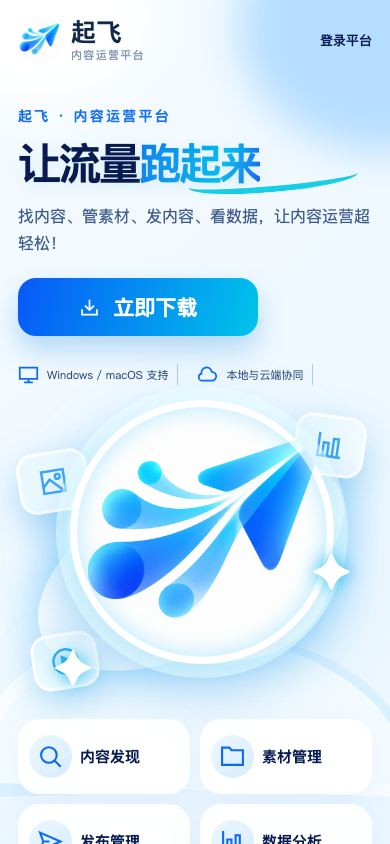
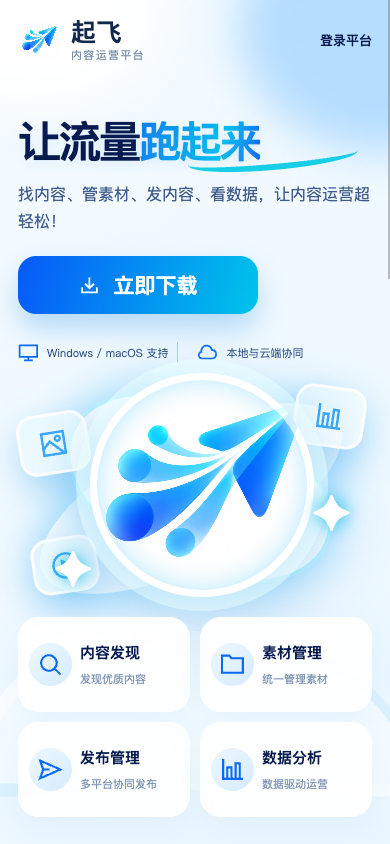
docs: record CHG 078 mobile layout correction

diff --git a/delivery/active/CHG-20261010-078/checkpoint.md b/delivery/active/CHG-20261010-078/checkpoint.md
@@ -1,7 +1,7 @@
 # CHG-20261010-078 Checkpoint
 
 - 已完成：Task 1 脚本与初始清单；Task 2 Cloud `/home` 与三平台按钮；Task 3 共享登录页及品牌视觉，宽屏与 390 px 无头浏览器截图已留证。
-- 当前工作：首页视觉修正已提交，状态回到 VERIFYING；等待新 Cloud Web 部署后的 `/home`、真实账号登录与目标用户网络三平台下载验收。
+- 当前工作：首页文案与手机布局再次校准，状态仍为 VERIFYING；等待新 Cloud Web 部署后的 `/home`、真实账号登录与目标用户网络三平台下载验收。
 - 下一步：部署后执行固定 Tag 清单更新命令，回读在线 JSON，逐个平台点击下载；收到结果后关闭 CHG。
 - 阻塞：无代码阻塞。在线部署和终端网络验收依赖目标环境人工执行。
-- 最近验证：首页视觉修正后 Cloud Web 构建与 Web 全量 490 项通过；1672×941 新截图与 390 px 移动截图已替换，移动视口宽度与文档滚动宽度同为 390。先前 Cloud/Desktop 双构建、Go 静态测试、下载脚本 4 项和 GitHub 清单核对仍有效；本机对 GitHub 资产直连 HEAD 曾超时，尚不代表用户网络不可下载。
+- 最近验证：本轮 Cloud Web 构建通过；1672×941、390×844、320×844 视口截图与 390 px 全页截图已留证，390/320 px 文档宽度分别等于视口宽度，功能卡标题与副文案均可见。先前 Web 全量 490 项、Desktop 构建、Go 静态测试、下载脚本 4 项和 GitHub 清单核对仍有效；本机对 GitHub 资产直连 HEAD 曾超时，尚不代表用户网络不可下载。

diff --git a/delivery/active/CHG-20261010-078/evidence/home-copy-and-mobile-layout.md b/delivery/active/CHG-20261010-078/evidence/home-copy-and-mobile-layout.md
@@ -1,0 +1,9 @@
+# 官网文案与手机布局校准
+
+- 用户标注：删除主视觉上方「起飞 · 内容运营平台」与「轻量易用」；放大居中导航；缩小「起飞」左侧 Logo 内图形，顶部略留白。补充反馈：手机端底部功能文案被遮挡。
+- 代码改动：首页导航文字 17→21 px；仅首页品牌图背景尺寸 150%→130%；删除两处指定文案。手机端取消 390 px 下隐藏功能副文案与最后一项支持说明的规则，插画高度 330→250 px；320 px 及以下高度 235 px、功能卡文字和间距适配。
+- Cloud 提交：`7c725c3`。
+- 自动验证：`npm run build:cloud` 退出码 0；`git diff --check` 退出码 0。
+- 浏览器验证：Chrome DevTools 视口 1672×941、390×844、320×844；390 与 320 px 文档宽度分别为 390 与 320，无水平溢出。390 px 下四张功能卡底部为 817.25 px，320 px 下为 832.23 px，均位于 844 px 视口内；四张卡的标题和副文案均在页面中可见。手机端「Windows / macOS 支持」和「本地与云端协同」均可见。
+- 截图：`screenshots/wt-home-wide.png`、`screenshots/wt-home-mobile-cdp.png`、`screenshots/wt-home-mobile-320.png`、`screenshots/wt-home-mobile-full.png`。
+- 边界：只验证本地页面与构建；线上部署和目标用户网络下载仍待验收。

diff --git a/delivery/active/CHG-20261010-078/status/cloud.md b/delivery/active/CHG-20261010-078/status/cloud.md
@@ -1,6 +1,6 @@
 # Cloud 状态
 
 - 分支：`codex/public-home-downloads`。
-- 已提交：`aedd398` 公开官网和下载清单；`a2c8f72` 共享登录视觉；`dcb3983` 按用户官网参考图校准视觉。
-- 验证：首页校准后 Web 52 个文件、490 项测试与 Cloud Web 构建通过；1672×941 和 390 px 截图已更新，390 px 无水平滚动。先前 Desktop Web 构建与 Go Cloud 静态服务聚焦测试通过。
+- 已提交：`aedd398` 公开官网和下载清单；`a2c8f72` 共享登录视觉；`dcb3983` 按用户官网参考图校准视觉；`7c725c3` 首页文案与手机布局修正。
+- 验证：本轮删除首页中部小标题和「轻量易用」，顶部导航放大至 21 px，首页左上 Logo 图形缩小并留白；手机端恢复功能卡副文案和第二项支持说明，缩短插画区。本轮 Cloud Web 构建通过，1672/390/320 px 浏览器截图已更新，390/320 px 无水平滚动。先前 Web 52 个文件、490 项测试、Desktop Web 构建与 Go Cloud 静态服务聚焦测试通过。
 - 待验收：新版本部署后 `/home`、真实账号登录、三平台安装包在目标用户网络的实际下载。
